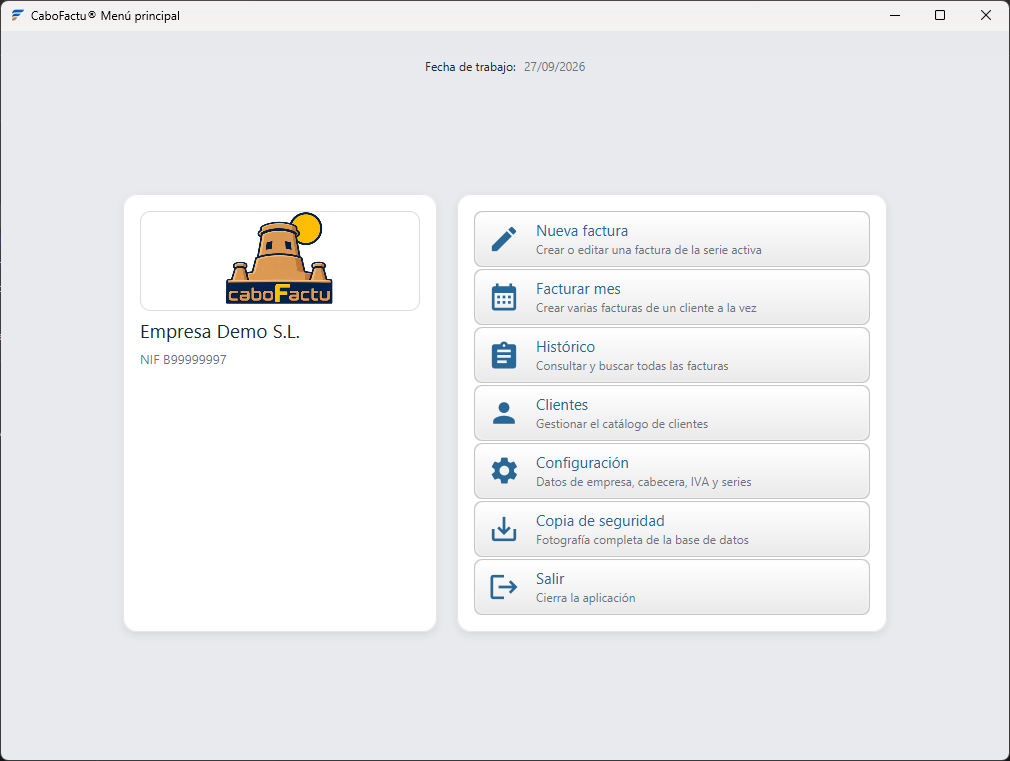
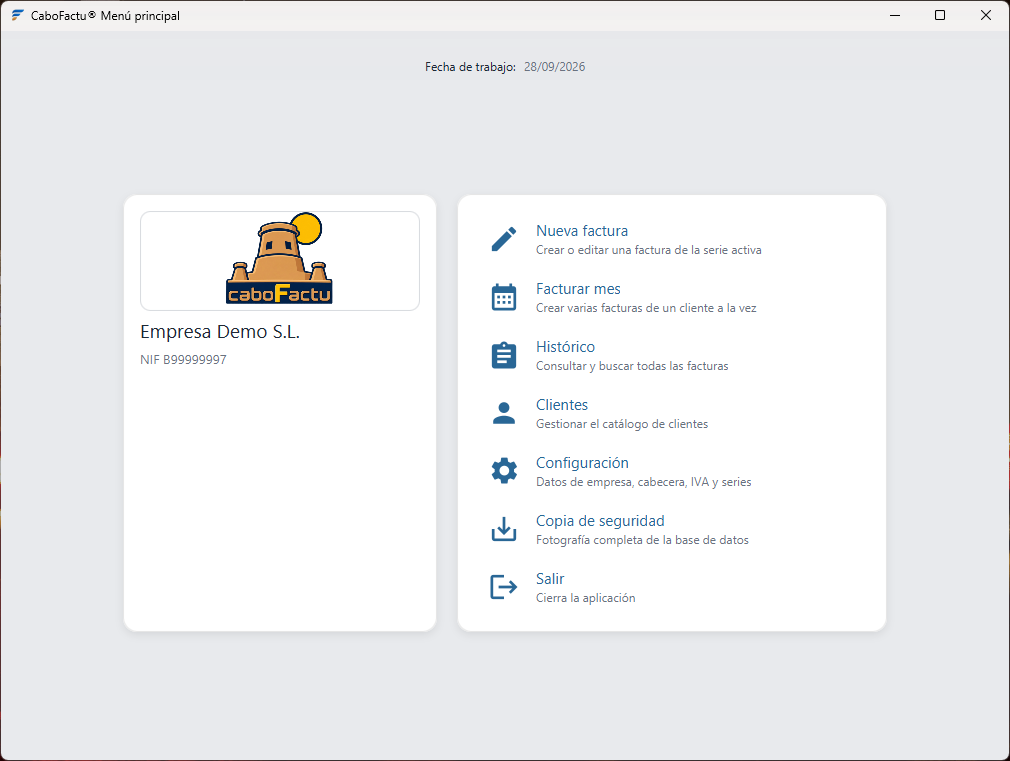
docs: menu-y-configuracion, capturas del menú y de Configuración

diff --git a/openspec/changes/menu-y-configuracion/tasks.md b/openspec/changes/menu-y-configuracion/tasks.md
@@ -31,7 +31,8 @@
 
 ## 6. Capturas (sesión principal, con Computer use)
 
-- [ ] 6.1 Rehacer `docs/capturas/menu.png` y añadir `docs/capturas/configuracion.png` (D8), con la demo y el tema biblioteca8.
+- [x] 6.1 Rehacer `docs/capturas/menu.png` y añadir `docs/capturas/configuracion.png` (D8), con la demo y el tema biblioteca8.
+  - Hechas por la sesión principal con Computer use (28/09): menú sin bordes y Configuración en Datos fiscales, 1010 × 761. Revisadas también Logotipo y Diseño del PDF: caben enteras.
 
 ## 7. Repaso
 
